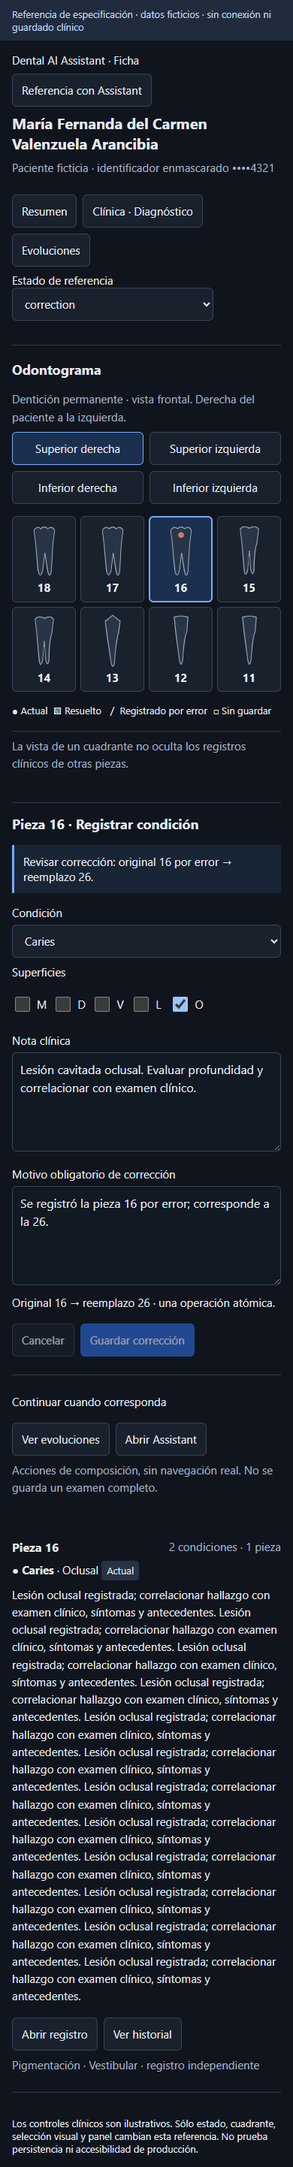
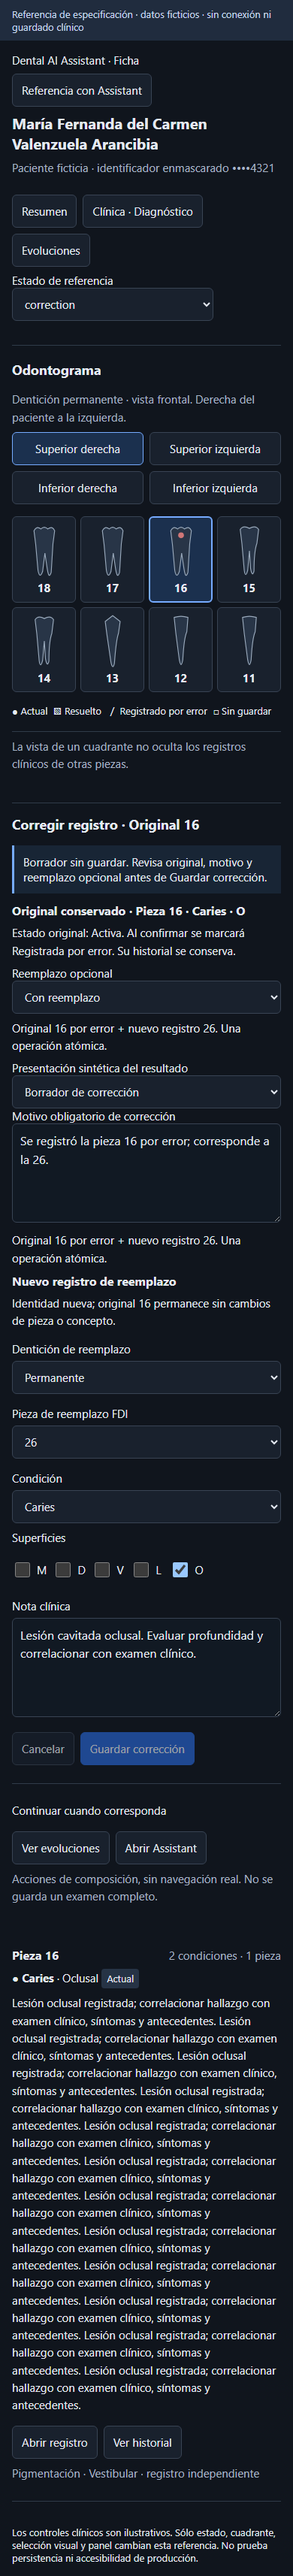
test(openspec): add correction fixtures to synthetic reference
Correction lacked without-replacement and confirmed-write/failed-read compositions, and the checker embedded a personal Chromium path. Add 12 fixtures across six viewports (96 -> 108 cases) and read PLAYWRIGHT_CHROMIUM_EXECUTABLE_PATH instead.

diff --git a/openspec/changes/harden-odontogram-human-workflow/wireframes/odontogram-reference.html b/openspec/changes/harden-odontogram-human-workflow/wireframes/odontogram-reference.html
@@ -7,4 +7,112 @@
 <main id="layout"><div class="workspace"><section class="chart"><h2>Odontograma</h2><p class="muted">Dentición permanente · vista frontal. Derecha del paciente a la izquierda.</p><div class="quadrants" id="quadrants"></div><div class="teeth" id="teeth"></div><div class="legend"><span>● Actual</span><span>▧ Resuelto</span><span>／ Registrado por error</span><span>□ Sin guardar</span></div><div class="record"><div class="record-head"><h3>Pieza <span id="record-fdi">16</span></h3><span class="muted">2 condiciones · 1 pieza</span></div><p><strong>● Caries</strong> · Oclusal <span class="badge" id="status">Actual</span></p><p id="note">Lesión cavitada oclusal. Sensibilidad a estímulo frío de corta duración, sin dolor espontáneo referido.</p><div class="actions"><button type="button">Abrir registro</button><button type="button">Ver historial</button></div><p class="muted">Pigmentación · Vestibular · registro independiente</p></div><p class="muted">La vista de un cuadrante no oculta los registros clínicos de otras piezas.</p></section><section class="inspector"><h2 id="heading">Pieza 16 · Registrar condición</h2><div id="feedback" class="message" role="status"></div><div class="fields" id="editor"><label for="concept">Condición</label><select id="concept"><option>Caries</option><option>Pieza ausente</option></select><p id="whole" hidden>Pieza completa, sin superficies.</p><div id="surface-block"><p>Superficies</p><div class="surfaces"><label><input type="checkbox">M</label><label><input type="checkbox">D</label><label><input type="checkbox">V</label><label><input type="checkbox">L</label><label><input type="checkbox" checked>O</label></div></div><label for="clinical-note">Nota clínica</label><textarea id="clinical-note">Lesión cavitada oclusal. Evaluar profundidad y correlacionar con examen clínico.</textarea><div id="reason-block" hidden><label for="reason">Motivo obligatorio de corrección</label><textarea id="reason">Se registró la pieza 16 por error; corresponde a la 26.</textarea><p>Original 16 → reemplazo 26 · una operación atómica.</p></div><div class="actions"><button type="button" disabled>Cancelar</button><button type="button" class="primary" disabled id="save">Guardar condición</button></div></div><div class="aux"><p>Continuar cuando corresponda</p><div class="actions"><button type="button">Ver evoluciones</button><button type="button">Abrir Assistant</button></div><p class="muted">Acciones de composición, sin navegación real. No se guarda un examen completo.</p></div></section></div><aside class="assistant" hidden id="assistant"><h2>Assistant</h2><p>Contexto de la misma paciente</p><p class="muted">Referencia del ancho disponible. En móvil se conserva la ruta completa existente.</p></aside></main><footer>Los controles clínicos son ilustrativos. Sólo estado, cuadrante, selección visual y panel cambian esta referencia. No prueba persistencia ni accesibilidad de producción.</footer>
 <script>
 const $=id=>document.getElementById(id);const params=new URLSearchParams(location.search);const messages={idle:'Selecciona una pieza. El examen normal no se infiere de registros vacíos.',draft:'Sin guardar · pieza 16 y superficies revisadas.',saving:'Guardando registro… Sin confirmación todavía.',saved:'Registro guardado · pieza 16. Resultado confirmado.',read_stale:'Registro guardado. La vista no pudo actualizarse. Reintentar sólo lectura.',uncertain:'No se pudo confirmar el guardado. Conservar el intento y reintentar sin cambiar su identidad.',conflict:'El registro cambió. Comparar nota, superficies y estado antes de reintentar.',correction:'Revisar corrección: original 16 por error → reemplazo 26.',whole_tooth:'Pieza completa. No requiere selección de superficies.',history:'Historial · registrado por error. Original conservado con motivo y vínculo.'};const profile='M3 12 Q8 3 15 9 Q21 3 27 9 Q35 3 39 12 L36 35 L33 84 Q29 98 26 78 L22 51 L18 83 Q13 97 10 81 L6 36 Z';function shape(f){const pos=f%10;if(pos<=2)return 'M9 6 Q21 2 33 6 L31 31 Q26 42 24 80 Q21 96 18 80 L12 34 Z';if(pos===3)return 'M8 13 L21 3 L34 13 L31 34 Q27 45 24 86 Q21 98 18 84 L11 36 Z';if(f<50&&pos<6)return 'M5 10 Q10 2 21 8 Q32 2 37 10 L34 34 Q29 48 29 82 Q26 94 23 78 L21 47 L18 81 Q14 96 12 81 L8 35 Z';return profile}let selected=16;let quadrant=1;let primary=params.get('dentition')==='primary';const quadrants=primary?[5,6,8,7]:[1,2,4,3];const names=['Superior derecha','Superior izquierda','Inferior derecha','Inferior izquierda'];function chart(){ $('quadrants').innerHTML=quadrants.map((q,i)=>`<button type="button" data-q="${q}" aria-pressed="${q===quadrant}">${names[i]}</button>`).join('');const count=primary?5:8;const reverse=[1,4,5,8].includes(quadrant);const teeth=Array.from({length:count},(_,i)=>quadrant*10+(reverse?count-i:i+1));$('teeth').innerHTML=teeth.map(f=>`<button type="button" class="tooth ${f===selected?'selected':''}" data-fdi="${f}" aria-label="Pieza ${f}" aria-pressed="${f===selected}"><svg viewBox="0 0 42 98" aria-hidden="true"><path d="${shape(f)}" fill="#283547" stroke="#9aaabc" stroke-width="1.5"/>${f===16?'<circle cx="21" cy="20" r="5" fill="#cf7777"/>':''}</svg><strong>${f}</strong></button>`).join('');document.querySelectorAll('[data-q]').forEach(b=>b.onclick=()=>{quadrant=Number(b.dataset.q);chart()});document.querySelectorAll('[data-fdi]').forEach(b=>b.onclick=()=>{selected=Number(b.dataset.fdi);$('heading').textContent=`Pieza ${selected} · referencia de selección`;chart()})}function state(){const s=$('state').value;$('feedback').textContent=messages[s];$('editor').hidden=['saved','read_stale','history','idle'].includes(s);$('reason-block').hidden=s!=='correction';$('surface-block').hidden=s==='whole_tooth';$('whole').hidden=s!=='whole_tooth';$('status').textContent=s==='history'?'Registrado por error':s==='draft'?'Actual':'Actual';$('save').textContent=s==='saving'?'Guardando…':s==='correction'?'Guardar corrección':'Guardar condición';if(s==='conflict')$('feedback').textContent+=' Local: «sensibilidad al frío». Actual: superficies O y M. Sin elección automática.';if(params.get('length')==='long')$('note').textContent=('Lesión oclusal registrada; correlacionar hallazgo con examen clínico, síntomas y antecedentes. ').repeat(12);if(params.get('patient')==='short')$('patient').textContent='Ana Pérez'}$('state').value=params.get('state')||'draft';$('state').onchange=state;$('panel').onclick=()=>{$('assistant').hidden=!$('assistant').hidden;$('layout').classList.toggle('with-assistant',!$('assistant').hidden);$('layout').style.display=$('assistant').hidden?'block':'grid';$('layout').style.gap='20px'};if(primary){quadrant=5;selected=55}chart();state();const record=document.querySelector('.record');const chartSection=document.querySelector('.chart');const recordAnchor=record.nextElementSibling;const recordHost=document.createElement('section');recordHost.id='mobile-records';document.querySelector('.workspace').append(recordHost);function reflow(){if(innerWidth<768){recordHost.append(record)}else{chartSection.insertBefore(record,recordAnchor)}}addEventListener('resize',reflow);reflow();
+</script>
+<script>
+// Synthetic correction composition only. No API or clinical mutations.
+const correctionReview = document.createElement('section');
+correctionReview.id = 'correction-review';
+correctionReview.hidden = true;
+correctionReview.innerHTML = `
+  <h3>Original conservado · Pieza 16 · Caries · O</h3>
+  <p id="correction-original-status">Estado original: Activa. Al confirmar se marcará Registrada por error. Su historial se conserva.</p>
+  <label for="replacement-mode">Reemplazo opcional</label>
+  <select id="replacement-mode">
+    <option value="with">Con reemplazo</option>
+    <option value="without">Sin reemplazo</option>
+  </select>
+  <p id="correction-consequence"></p>
+  <label for="correction-outcome">Presentación sintética del resultado</label>
+  <select id="correction-outcome">
+    <option value="draft">Borrador de corrección</option>
+    <option value="read_stale">Guardado confirmado / lectura fallida</option>
+  </select>
+  <div id="correction-receipt" class="message" hidden></div>`;
+const referenceEditor = document.getElementById('editor');
+referenceEditor.before(correctionReview);
+correctionReview.append(document.getElementById('reason-block'));
+const replacementContext = document.createElement('div');
+replacementContext.id = 'replacement-context';
+replacementContext.hidden = true;
+replacementContext.innerHTML = `
+  <h3>Nuevo registro de reemplazo</h3>
+  <p>Identidad nueva; original 16 permanece sin cambios de pieza o concepto.</p>
+  <label for="replacement-dentition">Dentición de reemplazo</label>
+  <select id="replacement-dentition"><option>Permanente</option><option>Temporal</option></select>
+  <label for="replacement-fdi">Pieza de reemplazo FDI</label>
+  <select id="replacement-fdi"><option>26</option><option>16</option></select>`;
+referenceEditor.prepend(replacementContext);
+const referenceSave = [...referenceEditor.querySelectorAll('button.primary')]
+  .find(button => /Guardar/.test(button.textContent));
+const referenceActions = referenceSave?.parentElement;
+const staleReadBanner = document.createElement('p');
+staleReadBanner.id = 'correction-stale-banner';
+staleReadBanner.className = 'message';
+staleReadBanner.hidden = true;
+staleReadBanner.textContent = 'Vista anterior a la corrección. Lectura pendiente; las marcas visibles no representan el estado actual confirmado por el receipt.';
+document.querySelector('.chart').prepend(staleReadBanner);
+function refreshCorrectionReference() {
+  const correction = document.getElementById('state').value === 'correction';
+  correctionReview.hidden = !correction;
+  replacementContext.hidden = !correction;
+  if (!correction) {
+    staleReadBanner.hidden = true;
+    if (referenceActions) {
+      referenceActions.hidden = false;
+      referenceEditor.append(referenceActions);
+    }
+    return;
+  }
+  const withReplacement = document.getElementById('replacement-mode').value === 'with';
+  const stale = document.getElementById('correction-outcome').value === 'read_stale';
+  document.getElementById('reason-block').hidden = false;
+  referenceEditor.hidden = !withReplacement || stale;
+  if (referenceActions) {
+    referenceEditor.after(referenceActions);
+    referenceActions.hidden = stale;
+  }
+  staleReadBanner.hidden = !stale;
+  document.getElementById('heading').textContent = 'Corregir registro · Original 16';
+  document.getElementById('correction-consequence').textContent = withReplacement
+    ? 'Original 16 por error + nuevo registro 26. Una operación atómica.'
+    : 'Original 16 por error. No se creará ningún reemplazo.';
+  document.getElementById('correction-original-status').textContent = stale
+    ? 'Corrección confirmada: original Registrada por error. Su historial se conserva; la lectura de la proyección está pendiente.'
+    : 'Estado original: Activa. Al confirmar se marcará Registrada por error. Su historial se conserva.';
+  for (const paragraph of document.getElementById('reason-block').querySelectorAll('p')) {
+    paragraph.textContent = document.getElementById('correction-consequence').textContent;
+  }
+  document.getElementById('feedback').textContent = stale
+    ? 'Corrección guardada. No pudimos actualizar la vista. Reintentar lectura usa GET únicamente.'
+    : 'Borrador sin guardar. Revisa original, motivo y reemplazo opcional antes de Guardar corrección.';
+  const receipt = document.getElementById('correction-receipt');
+  receipt.hidden = !stale;
+  receipt.textContent = withReplacement
+    ? 'Receipt confirmado · original 16, revisión corregida 4 · reemplazo 26, revisión creada 1. La vista actual está pendiente de lectura.'
+    : 'Receipt confirmado · original 16, revisión corregida 4 · sin reemplazo. La vista actual está pendiente de lectura.';
+  let readRetry = document.getElementById('correction-read-retry');
+  if (!readRetry) {
+    readRetry = document.createElement('button');
+    readRetry.id = 'correction-read-retry';
+    readRetry.type = 'button';
+    readRetry.textContent = 'Reintentar lectura (referencia, sin conexión)';
+    correctionReview.append(readRetry);
+  }
+  readRetry.hidden = !stale;
+  for (const input of correctionReview.querySelectorAll('textarea')) input.disabled = stale;
+  const save = referenceSave;
+  if (save) {
+    save.textContent = 'Guardar corrección';
+    save.hidden = stale;
+  }
+}
+document.getElementById('state').addEventListener('change', () => {
+  // The incumbent state picker paints first; this adds the correction-specific composition.
+  document.getElementById('reason-block').querySelector('textarea').disabled = false;
+  for (const button of document.querySelectorAll('button.primary')) button.hidden = false;
+  refreshCorrectionReference();
+});
+document.getElementById('replacement-mode').addEventListener('change', refreshCorrectionReference);
+document.getElementById('correction-outcome').addEventListener('change', refreshCorrectionReference);
+refreshCorrectionReference();
 </script></html>
